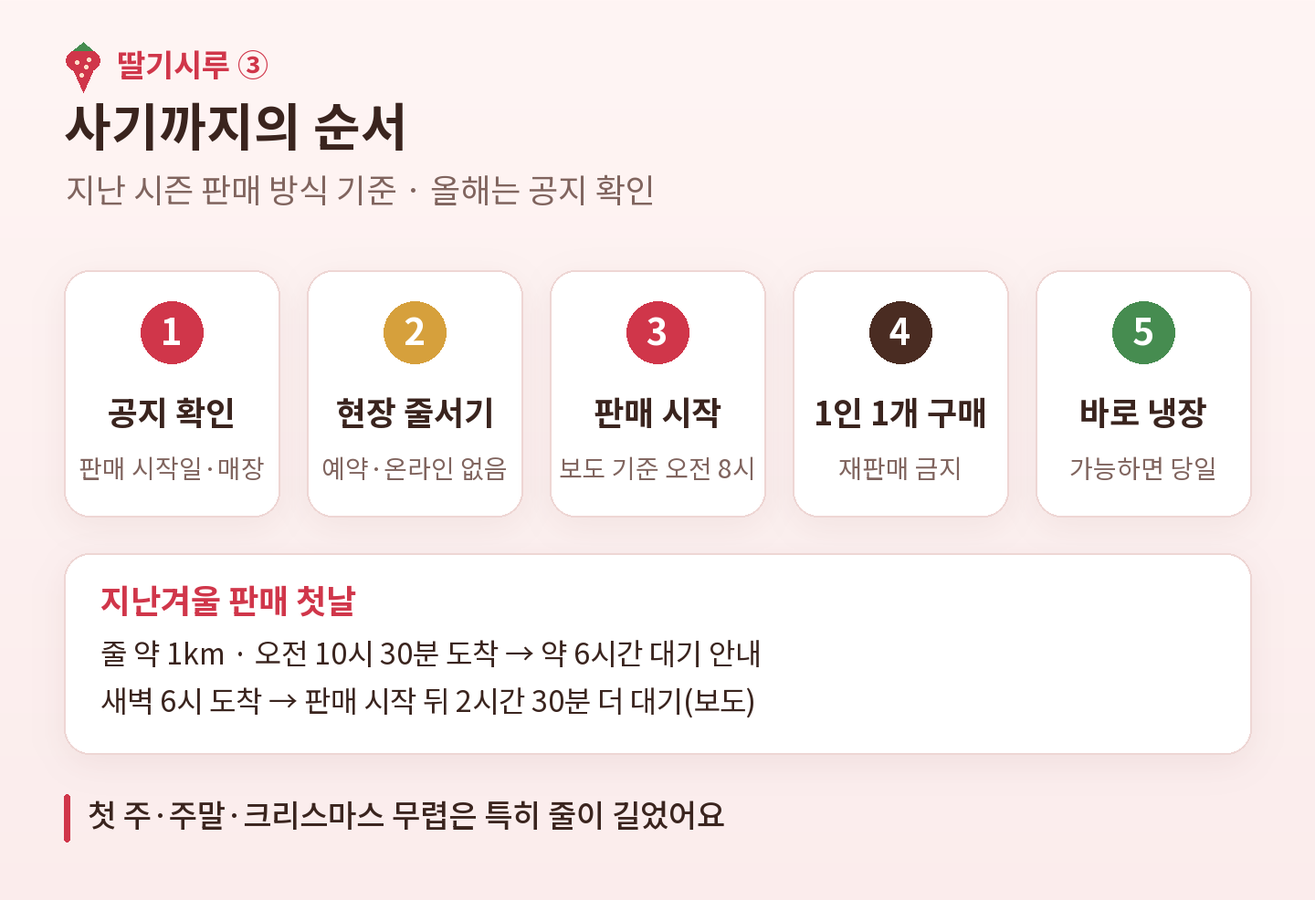
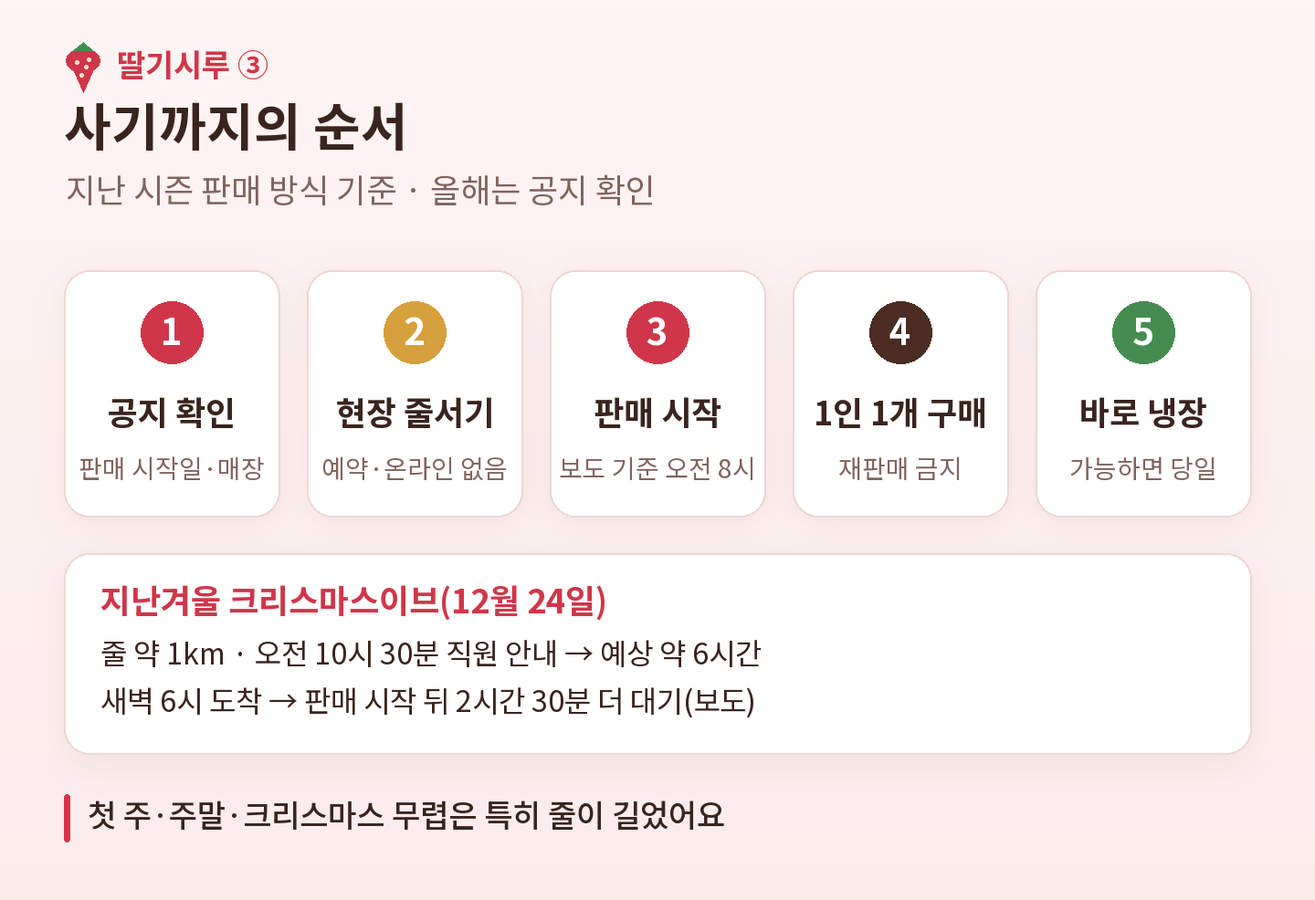
성심당 딸기시루 글: 외부 검수 반영(대기 사례 날짜·상품 구분, 그림 04·05 다시 그림)

Changed region(s): [[0.1562, 0.6389, 0.5938, 0.7606]]

diff --git a/문서/네이버-코딩가이드/20261126_성심당-딸기시루/index.html b/문서/네이버-코딩가이드/20261126_성심당-딸기시루/index.html
@@ -6,7 +6,7 @@
 글 제목: 성심당 딸기시루 총정리, 가격·중량·사는 법과 웨이팅
 태그: #성심당딸기시루 #딸기시루 #딸기시루가격 #딸기시루웨이팅 #성심당 #케익부띠끄 #딸기시루막내 #말차시루 #대전빵집 #대전여행
 검색 설명: 성심당 딸기시루가 무엇이 특별한지(2.3kg 중량, 4만 9천 원 가격, 초코 시트와 딸기를 층층이 쌓은 구조, '시루'라는 이름), 언제부터 어디서 어떻게 사는지(판매 시작일, 케익부띠끄 본점 현장 판매, 1인 1개), 지난겨울 첫날 웨이팅과 기다림을 줄이는 법, 보관 방법을 정리했습니다.
-글자 수: 본문 공백 포함 3,215자 / 공백 제외 2,511자
+글자 수: 본문 공백 포함 3,396자 / 공백 제외 2,653자
 계기: 사용자가 '성심당 딸기시루' 소재 제안 중 1번(사는 법)과 '무엇이 특별할까'를 합쳐 한 편으로 요청.
 
 [이미지 순서]
@@ -14,26 +14,27 @@
 - 01-타이틀.png (ChatGPT, 1080×1080) — 표지
 - 02-딸기시루-단면.png (ChatGPT 실사풍 3D 단면 인포그래픽, 가로 3:2 1620×1080) — 초코 시트·크림·생딸기를 층층이 쌓은 구조, 2.3kg (네 번째 요청으로 받음, AI 버전은 scratchpad/backup/siru-02-ai.png)
 - 03-시루-케이크-가격.png (AI, 세로 1080×1516) — 딸기시루 가격 변화(2023~2025)와 지난 시즌 시루 케이크 가격
-- 04-사기까지의-순서.png (AI, 가로 1440×986) — 공지 확인부터 냉장까지 다섯 단계, 지난겨울 첫날 대기
-- 05-지난-겨울-대기-기록.png (AI, 가로 1440×1226) — 날짜별 보도된 대기 시간(범위 막대): 첫날·크리스마스는 몇 시간, 시즌 중간 평일은 1시간 안쪽
+- 04-사기까지의-순서.png (AI, 가로 1440×986) — 공지 확인부터 냉장까지 다섯 단계, 지난겨울 크리스마스이브(12.24) 대기
+- 05-지난-겨울-대기-기록.png (AI, 가로 1440×약 1450) — 지난 세 시즌 보도된 대기 사례: 한 사람이 실제로 기다린 시간(점)·직원 안내 예상 시간(빈 원)·보도된 범위(막대)를 나눠 표시
 - 06-함께-보면-좋은-글.png (AI 배너, 1600×234)
 
+[외부 검수 반영 11.26] 2025.2.14 한국경제 2시간 20분은 화이트딸기시루 구매라 본문·그림 05에서 뺌(원문 확인). 약 1km·오전 10시 30분 약 6시간 안내·새벽 6시 도착 2시간 30분은 한겨레 12.24 기사 원문상 크리스마스이브 일이라 첫날(12.23, 3시간 23분)과 나눠 씀, 그림 04 상자 제목도 고침. 그림 05는 서로 다른 사람의 숫자를 한 범위로 잇지 않게 점·빈 원·막대로 나눔. 출시일은 '딸기시루 이름으로 2023.1.30'으로 한정(검수의 2021년 1월 첫 등장은 원문을 찾지 못해 쓰지 않음). 1kg 가격 문장 중립화, 임신부 우대는 시즌 안내 확인 문장 추가.
 [근거] (2026.11.26 서브에이전트 조사, 다음 뉴스 기사 원문 기준. 성심당 인스타그램은 직접 읽지 못함, 누리집 공지 게시판도 내용 확인 못 함)
-- 2026~27년 겨울 판매 일정·가격: 11.26 기준 발표 없음(최근 한 달 기사 없음). 본문은 '지난 시즌 기준'으로 쓰고 공식 공지 확인을 당부.
-- 지난 시즌(2025~26): 2025.12.23 케익부띠끄 본점에서 판매 시작, 2.3kg 4만 9천 원(2024년과 같음), 막내 4만 3천 원, 말차시루(2025~26 신제품) 4만 3천 원, 딸기설기 5만 2천 원(전 매장) — 조선일보 2025.12.4, 뉴시스·한겨레 2025.12.24. 12.1 SNS 공지 '재료 수급에 따라 판매 일정 변동 가능'·'공식 매장 외 구매대행 판매 금지'(조선일보 인용). 온라인 판매·예약 없음, 1인 1개(뉴시스). 오전 8시 판매 시작, 임산부 동반 1명 우선·5% 할인(한겨레 1건). 첫날 줄 약 1km·직원 추정 약 6시간, 오전 6시 도착 손님 판매 시작 뒤 2시간 30분(한겨레), 200m 넘는 줄·5시간 넘게(뉴시스). 재판매 6만 5천~14만 원(뉴시스)·8만 5천~10만 원(한겨레), 누리집에 '제3자 재판매 금지(변질·위생 위험)' 안내(한겨레 인용).
+- 2026~27년 겨울 판매 일정·가격: 11.26 기준 이번 조사(최근 한 달 기사)에서 공식 발표를 찾지 못함(인스타그램·공지 게시판은 직접 확인 못 함). 본문은 '지난 시즌 기준'으로 쓰고 공식 공지 확인을 당부.
+- 지난 시즌(2025~26): 2025.12.23 케익부띠끄 본점에서 판매 시작, 2.3kg 4만 9천 원(2024년과 같음), 막내 4만 3천 원, 말차시루(2025~26 신제품) 4만 3천 원, 딸기설기 5만 2천 원(전 매장) — 조선일보 2025.12.4, 뉴시스·한겨레 2025.12.24. 12.1 SNS 공지 '재료 수급에 따라 판매 일정 변동 가능'·'공식 매장 외 구매대행 판매 금지'(조선일보 인용). 온라인 판매·예약 없음, 1인 1개(뉴시스). 오전 8시 판매 시작, 임산부 동반 1명 우선·5% 할인(한겨레 1건). 크리스마스이브(12.24) 줄 약 1km·오전 10시 30분 직원 안내 약 6시간, 새벽 6시 도착 손님 판매 시작 뒤 2시간 30분(한겨레 12.24 기사 원문 확인 — 처음엔 첫날로 잘못 씀), 200m 넘는 줄·5시간 넘게(뉴시스). 재판매 6만 5천~14만 원(뉴시스)·8만 5천~10만 원(한겨레), 누리집에 '제3자 재판매 금지(변질·위생 위험)' 안내(한겨레 인용).
 - 판매 종료: 2026.4.5(일) 딸기 케이크 판매 마감(성심당 인스타그램 공지를 인용한 국제뉴스 2026.4.6) — 기사 1건이라 '~고 합니다'. 2024~25 시즌은 4월 말 무렵 끝남.
 - 가격 변화: 2023년 4만 3천 원 → 2024년 4만 9천 원(머니투데이·뉴시스 2024.11.21~22 '6천 원 인상') → 2025년 동일. 2026년 기사 일부의 '4만 3천 원'은 막내 가격으로 판단해 2.3kg 가격으로 쓰지 않음.
 - 중량: 2.3kg(모든 기사 일치). 성심당 대표가 '2.3kg라고 썼는데 손님이 재니 2.5kg이 나왔다'고 말했다는 보도(서울신문 2025.2.12, SBS 스페셜 인터뷰). 크기(cm)·막내 중량은 공개 자료 못 찾음.
 - 구조: 초코 시트·크림·생딸기를 층층이(파이낸셜뉴스 2026.1.16, 성심당 게시물 인용), '딸기 한 박스를 통째로 넣은'(여러 기사의 표현). 딸기 개수·크림 종류는 공식 자료 못 찾아 쓰지 않음.
-- 이름: 처음 이름은 '스트로베리 쇼콜라 케이크', 검은 시트가 겹겹이 쌓인 모습이 시루떡 같아 바꿨다는 대표 인터뷰(서울신문 2025.2.12, 파이낸셜뉴스 2026.1.16). 첫 출시 2023.1.30(성심당 게시물 인용, 파이낸셜뉴스).
+- 이름: 처음 이름은 '스트로베리 쇼콜라 케이크', 검은 시트가 겹겹이 쌓인 모습이 시루떡 같아 바꿨다는 대표 인터뷰(서울신문 2025.2.12, 파이낸셜뉴스 2026.1.16). '딸기시루' 이름으로 첫 출시 2023.1.30(성심당 게시물 인용, 파이낸셜뉴스). 검수가 말한 '전신 2021년 1월 첫 등장'은 원문을 찾지 못해 쓰지 않음.
 - 회사 실적: 2025년 매출 2,629억 원·영업이익 643억 원(감사보고서 보도, 서울경제 2026.4.12 등) — 본문에는 쓰지 않음(딸기시루만의 숫자가 아니라서).
 - 보관: 공식 유통기한 공지 못 찾음. '냉장 보관, 가능하면 당일' 수준으로만 씀.
 - 개인 이름은 쓰지 않음(성심당 대표로만).
-- 사용자 요청(11.26)으로 '얼마나 기다릴까?' 보강(두 번째 서브에이전트 조사, 기사 원문): 2023.12.24 오전 10시 약 700~800명·최소 2시간(한국일보 르포), 2024.12.31(화) 점심 1시간 안쪽·'주말 최소 2~3시간'(이데일리 기자 체험), 2025.2.14 밸런타인데이 오픈 전 300명+·2시간 20분(한국경제), 2025.2 성심당 쪽 '주말 300명 이상, 시간을 잘 맞추면 웨이팅 없는 시간대도 많다'·생산량 평일 약 300·주말 약 800개(세계일보 2025.2.23), 2025.12.23 새벽 3시 줄·영하 8도(연합뉴스TV)·주문·계산까지 3시간 23분(파이낸셜뉴스), 12.25 4~5시간 넘게(서울신문·헤럴드경제), 줄은 케익부띠끄 옆 중앙로 지하상가('계단으로 내려가 대기' 안내판)·많으면 지상 주차장까지, 주문·계산 뒤 옆 별도 수령처(2024~25부터), 말차시루 옆 건물·함께 계산하면 옆에서 수령, 번호표·대기 앱 보도 없음, 케이크 보관함 1만 원(오전 8시~자정)·1만 원 이상 구매 1시간 무료 주차(한국경제 2025.2), 임신부 우선 입장 2024 도입·확인서와 신분증(서울신문 2025.12.27). 2024 시즌 대기는 1시간~7시간으로 엇갈려 그림에서 뺌. 2025.12 첫날 줄 길이는 200m(뉴시스)와 약 1km(한겨레)로 측정 방식이 달라 본문은 '약 1km까지'만.
+- 사용자 요청(11.26)으로 '얼마나 기다릴까?' 보강(두 번째 서브에이전트 조사, 기사 원문): 2023.12.24 오전 10시 약 700~800명·최소 2시간(한국일보 르포), 2024.12.31(화) 점심 1시간 안쪽·'주말 최소 2~3시간'(이데일리 기자 체험), 2025.2.14 한국경제 기자 체험(2시간 20분)은 화이트딸기시루 구매라 외부 검수 뒤 본문·그림에서 뺌, 2025.2 성심당 쪽 '주말 300명 이상, 시간을 잘 맞추면 웨이팅 없는 시간대도 많다'·생산량 평일 약 300·주말 약 800개(세계일보 2025.2.23), 2025.12.23 새벽 3시 줄·영하 8도(연합뉴스TV)·주문·계산까지 3시간 23분(파이낸셜뉴스), 12.25 4~5시간 넘게(서울신문·헤럴드경제), 줄은 케익부띠끄 옆 중앙로 지하상가('계단으로 내려가 대기' 안내판)·많으면 지상 주차장까지, 주문·계산 뒤 옆 별도 수령처(2024~25부터), 말차시루 옆 건물·함께 계산하면 옆에서 수령, 번호표·대기 앱 보도 없음, 케이크 보관함 1만 원(오전 8시~자정)·1만 원 이상 구매 1시간 무료 주차(한국경제 2025.2), 임신부 우선 입장 2024 도입·확인서와 신분증(서울신문 2025.12.27). 2024 시즌 대기는 1시간~7시간으로 엇갈려 그림에서 뺌. 줄 길이 200m(뉴시스)는 첫날 무렵, 약 1km(한겨레)는 12.24 크리스마스이브 기준이라 본문은 24일 일로 씀.
 - 함께 보면 좋은 글: 성심당 매장별 영업시간, 딸기시루는 어디서 살까(네이버 코딩가이드 · 여행·취미·문화 · 2026.11.25), 전국 크리스마스 마켓 모음(네이버 코딩가이드 · 여행·취미·문화 · 2026.11.26).
 -->
 
-<p style="font-size:16px;">무게 2.3kg, 가격 4만 9천 원.<br>지난겨울 판매 첫날에는 대전 은행동 골목에 약 1km 줄이 섰다고 합니다.</p>
+<p style="font-size:16px;">무게 2.3kg, 가격 4만 9천 원.<br>지난겨울 크리스마스이브에는 대전 은행동 골목에 약 1km 줄이 섰다고 합니다.</p>
 
 <p style="font-size:16px;color:#e60000;font-weight:bold;">[[ 이미지: 타이틀 (01-타이틀.png) ]]</p>
 
@@ -60,14 +61,14 @@
 <p>&nbsp;</p>
 <h3 style="font-size:18px;margin:24px 0 8px;">◆ 이름이 '시루'인 까닭</h3>
 <p style="font-size:16px;">처음 이름은 '스트로베리 쇼콜라 케이크'였다고 합니다.<br>검은 시트가 겹겹이 쌓인 모습이 시루떡 같아 지금 이름으로 바꿨다는 것이 성심당 쪽 설명입니다.</p>
-<p style="font-size:16px;">2023년 1월 30일 처음 나와, 이제는 겨울마다 줄을 세우는 대표 케이크가 됐습니다.</p>
+<p style="font-size:16px;">'딸기시루'라는 이름으로 나온 것은 2023년 1월 30일이라고 합니다.<br>이제는 겨울마다 줄을 세우는 대표 케이크가 됐습니다.</p>
 
 <p>&nbsp;</p>
 <h3 style="font-size:18px;margin:24px 0 8px;">◆ 가격은 얼마일까?</h3>
 
 <p style="font-size:16px;color:#e60000;font-weight:bold;">[[ 이미지: 시루 케이크 가격 (03-시루-케이크-가격.png) ]]</p>
 
-<p style="font-size:16px;">2.3kg 딸기시루는 2023년 4만 3천 원에서 2024년 4만 9천 원으로 올랐고, 2025년에도 같았습니다.<br>1kg에 2만 1천 원 남짓인 셈이라 '무게 대비 싸다'는 평이 인기의 이유로 꼽힙니다.</p>
+<p style="font-size:16px;">2.3kg 딸기시루는 2023년 4만 3천 원에서 2024년 4만 9천 원으로 올랐고, 2025년에도 같았습니다.<br>단순히 나누면 1kg에 약 2만 1천 원입니다.<br>가격과 함께 딸기와 크림을 넉넉히 넣은 구성도 인기 이유로 자주 언급됩니다.</p>
 <p style="font-size:16px;">작은 크기인 '딸기시루 막내'와 말차 크림을 더한 '말차시루'는 4만 3천 원이었습니다.<br>막내의 무게는 공개된 자료를 찾지 못했습니다.</p>
 
 <p>&nbsp;</p>
@@ -85,7 +86,7 @@
 <p style="font-size:16px;color:#e60000;font-weight:bold;">[[ 이미지: 사기까지의 순서 (04-사기까지의-순서.png) ]]</p>
 
 <p style="font-size:16px;">판매는 오전 8시에 시작했다고 합니다.<br>임신부는 동행 1명과 함께 줄을 서지 않고 살 수 있고 5% 할인을 받았다는 보도도 있습니다.</p>
-<p style="font-size:16px;">이 우선 입장은 줄이 길어지면서 2024년에 생겼고, 임신 확인서나 산모수첩과 신분증을 함께 확인했다고 합니다.</p>
+<p style="font-size:16px;">이 우선 입장은 줄이 길어지면서 2024년에 생겼고, 임신 확인서나 산모수첩과 신분증을 함께 확인했다고 합니다.<br>올겨울에도 같은지, 어떤 서류가 필요한지는 그 시즌 매장 안내로 확인하세요.</p>
 <p style="font-size:16px;">판매 매장과 우대 방식은 시즌마다 바뀔 수 있습니다.<br>출시 공지에서 판매 매장을 먼저 확인하세요.</p>
 
 <p>&nbsp;</p>
@@ -93,17 +94,19 @@
 <h2 style="font-size:24px;margin:40px 0 12px;">얼마나 기다릴까?</h2>
 <p style="font-size:16px;">기다리는 시간은 날짜에 따라 크게 달랐습니다.<br>지난 세 번의 겨울에 보도된 대기 시간을 모아 보면 이렇습니다.</p>
 
-<p style="font-size:16px;color:#e60000;font-weight:bold;">[[ 이미지: 지난 겨울 대기 기록 (05-지난-겨울-대기-기록.png) ]]</p>
+<p style="font-size:16px;color:#e60000;font-weight:bold;">[[ 이미지: 지난 세 시즌 대기 사례 (05-지난-겨울-대기-기록.png) ]]</p>
 <p>&nbsp;</p>
 <h3 style="font-size:18px;margin:24px 0 8px;">◆ 가장 길었던 날: 판매 첫날과 크리스마스</h3>
 <p style="font-size:16px;">지난 시즌 판매 첫날(2025년 12월 23일)에는 새벽 3시부터 줄이 생겼다고 합니다.<br>그날 새벽 기온은 영하 8도였다는 보도가 있습니다.</p>
-<p style="font-size:16px;">줄은 약 1km까지 이어졌고, 오전 10시 30분에 온 사람은 약 6시간을 기다려야 한다는 안내를 들었다고 합니다.<br>주문과 계산까지 3시간 23분이 걸렸다는 기자 체험기도 있습니다.</p>
-<p style="font-size:16px;">크리스마스 당일에도 4~5시간 넘게 기다렸다는 보도가 이어졌습니다.<br>2023년 크리스마스이브에는 오전 10시에 700~800명이 줄을 서 최소 2시간을 기다렸다고 합니다.</p>
+<p style="font-size:16px;">이날 줄을 서서 주문과 계산을 마치기까지 3시간 23분이 걸렸다는 기자 체험기가 있습니다.</p>
+<p style="font-size:16px;">다음 날인 크리스마스이브(12월 24일)에는 줄이 약 1km까지 이어졌다고 합니다.<br>오전 10시 30분에는 지금 서면 약 6시간을 기다려야 한다는 직원 안내가 나왔습니다.</p>
+<p style="font-size:16px;">같은 날 새벽 6시에 온 사람도 판매 시작(오전 8시) 뒤 2시간 30분을 더 기다렸다고 합니다.<br>크리스마스 당일에도 4~5시간 넘게 기다렸다는 보도가 이어졌습니다.</p>
+<p style="font-size:16px;">2023년 크리스마스이브에는 오전 10시에 700~800명이 줄을 서 최소 2시간을 기다렸다고 합니다.</p>
 <p>&nbsp;</p>
 <h3 style="font-size:18px;margin:24px 0 8px;">◆ 시즌 중간 평일은 어땠을까?</h3>
 <p style="font-size:16px;">첫 주가 지나면 사정이 달랐습니다.<br>2024년 12월 31일(화) 점심에는 1시간 안쪽으로 샀다는 체험기가 있습니다.</p>
 <p style="font-size:16px;">2025년 2월, 성심당 쪽은 '주말에는 300명 넘게 기다리지만 시간을 잘 맞추면 대기가 없는 때도 많다'고 설명했다고 합니다.<br>당시 딸기시루를 평일 약 300개, 주말 약 800개 만든다는 설명도 함께 나왔습니다.</p>
-<p style="font-size:16px;">다만 밸런타인데이처럼 특별한 날은 평일이어도 2시간 넘게 기다렸다는 보도가 있습니다.<br>숫자는 대부분 기자 체험이나 손님 후기라 공식 집계는 아닙니다.</p>
+<p style="font-size:16px;">여기 적은 숫자는 대부분 기자 체험이나 손님 후기라 공식 집계는 아닙니다.<br>한 사람이 기다린 시간과 직원이 안내한 예상 시간도 서로 다른 숫자입니다.</p>
 <p>&nbsp;</p>
 <h3 style="font-size:18px;margin:24px 0 8px;">◆ 줄은 어디에 설까?</h3>
 <p style="font-size:16px;">지난 시즌 줄은 케익부띠끄 본점 옆 중앙로 지하상가 쪽으로 이어졌습니다.<br>'계단으로 내려가 대기'라는 안내판이 있었다고 합니다.</p>

diff --git a/AGENTS.md b/AGENTS.md
@@ -269,7 +269,7 @@
 - 2026-11-26: `문서/네이버-코딩가이드/20261126_성심당-딸기시루/index.html` 작성("성심당 딸기시루 총정리, 가격·중량·사는 법과 웨이팅", 카테고리 여행·취미·문화, 공백 포함 2,158자). 사용자가 '딸기시루' 제안 1번(사는 법)과 '무엇이 특별할까'를 합쳐 한 편으로 요청.
   - 근거: 서브에이전트로 2023~2026 기사 원문 조사(성심당 인스타그램·누리집 공지는 직접 읽지 못함). 올겨울(2026~27) 일정·가격은 11.26 기준 발표가 없어 '지난 시즌 기준'과 공식 공지 확인 안내를 요약 뒤 연한 배경 상자에 둠. 2026년 기사 일부의 '딸기시루 4만 3천 원'은 막내 가격으로 판단해 2.3kg 가격으로 쓰지 않음. 오전 8시·임신부 우대·첫날 대기 시간은 기사 1~2건이라 '~고 합니다·보도'로. 회사 실적은 딸기시루만의 숫자가 아니라 본문에서 뺌. 2025년 4월 곰팡이 민원 건은 쓰지 않음. 대표 이름은 쓰지 않음. **'올해 판매 정보'가 아직 없는 계절 상품 글은 지난 시즌 사실을 날짜와 함께 쓰고, 끝에 '올해 공지가 뜨면 볼 것'을 둔다.**
   - 이미지 5장: AI 02 딸기시루 단면(가로 개념도)·03 시루 케이크 가격(세로 막대+목록)·04 사기까지의 순서(가로 다섯 단계+첫날 대기 상자)·05 이 글 배너(초코 원 안 딸기) — 연분홍 크림·초코·딸기 빨강, 머리에 딸기 아이콘 + '딸기시루 ①~③', 스크립트 scratchpad/tgs/siru.py. h3 기호 ◆, '한 줄로 말하면'만 딸기 빨강. 링크는 성심당 매장별(네이버 · 여행·취미·문화 · 11.25)·전국 크리스마스 마켓(네이버 · 여행·취미·문화 · 11.26). ChatGPT 01 타이틀('성심당 딸기시루 / 가격·사는 법 총정리') 요청 중.
-  - 같은 날 사용자 요청으로 '얼마나 기다릴까?' 보강(공백 포함 3,215자): h3 넷(가장 길었던 날·시즌 중간 평일·줄은 어디에·사는 순서와 받는 곳) + '기다림을 줄이려면' 목록 확장, 새 AI 그림 05 지난 겨울 대기 기록(가로 범위 막대), 배너는 06으로. 대기 숫자는 기자 체험·후기라 '공식 집계 아님'을 그림과 본문에 밝힘. **대기·혼잡 정보는 날짜별로 나눠 쓰고(첫날·명절 vs 시즌 중간 평일), 측정 방식이 다른 숫자는 한쪽만 쓰거나 범위로 쓴다.** 같은 날 사용자 요청으로 02 딸기시루 단면도 ChatGPT 실사풍 3D 단면 인포그래픽(가로 3:2 1620×1080, 글자 작게)으로 요청. AI 버전 백업 scratchpad/backup/siru-02-ai.png, 받기 전까지 AI 버전이 자리를 지킴. 받은 02가 빡빡해(케이크가 화면을 꽉 채움, 큰 제목·배지, 오른쪽 요소 다섯 개) 여백 8~10%·케이크 50~55%·요소 축소(설명 문장·'시루떡' 줄 빼고 아래 안내 한 줄, 2.3kg은 제목 옆 작은 배지)로 다시 요청. 두 번째는 비어 보이고, 세 번째는 위아래 간격이 좁아 픽셀 간격(제목 위·아래 글 아래 80px+, 제목–케이크 60px+, 케이크–아래 글 50px+)으로 네 번째 요청. 네 번째 02(글자·요소 모두 정확, 간격 넉넉, 1536×1024 → 1620×1080)와 01 타이틀(햇살 테이블의 잘린 딸기시루·흰 상자, 글자 정확, 둘째 줄 약 81%·세로 중심 약 49%, 크기만 맞춤)을 적용, 원본 scratchpad/backup/siru-01·02-original.png. 이미지 6장 완료, 대기 중인 요청 없음. 남은 일은 사용자의 네이버 발행(링크 줄 교체)뿐이다.
+  - 같은 날 사용자 요청으로 '얼마나 기다릴까?' 보강(공백 포함 3,215자): h3 넷(가장 길었던 날·시즌 중간 평일·줄은 어디에·사는 순서와 받는 곳) + '기다림을 줄이려면' 목록 확장, 새 AI 그림 05 지난 겨울 대기 기록(가로 범위 막대), 배너는 06으로. 대기 숫자는 기자 체험·후기라 '공식 집계 아님'을 그림과 본문에 밝힘. **대기·혼잡 정보는 날짜별로 나눠 쓰고(첫날·명절 vs 시즌 중간 평일), 측정 방식이 다른 숫자는 한쪽만 쓰거나 범위로 쓴다.** 같은 날 사용자 요청으로 02 딸기시루 단면도 ChatGPT 실사풍 3D 단면 인포그래픽(가로 3:2 1620×1080, 글자 작게)으로 요청. AI 버전 백업 scratchpad/backup/siru-02-ai.png, 받기 전까지 AI 버전이 자리를 지킴. 받은 02가 빡빡해(케이크가 화면을 꽉 채움, 큰 제목·배지, 오른쪽 요소 다섯 개) 여백 8~10%·케이크 50~55%·요소 축소(설명 문장·'시루떡' 줄 빼고 아래 안내 한 줄, 2.3kg은 제목 옆 작은 배지)로 다시 요청. 두 번째는 비어 보이고, 세 번째는 위아래 간격이 좁아 픽셀 간격(제목 위·아래 글 아래 80px+, 제목–케이크 60px+, 케이크–아래 글 50px+)으로 네 번째 요청. 네 번째 02(글자·요소 모두 정확, 간격 넉넉, 1536×1024 → 1620×1080)와 01 타이틀(햇살 테이블의 잘린 딸기시루·흰 상자, 글자 정확, 둘째 줄 약 81%·세로 중심 약 49%, 크기만 맞춤)을 적용, 원본 scratchpad/backup/siru-01·02-original.png. 이미지 6장 완료, 대기 중인 요청 없음. 남은 일은 사용자의 네이버 발행(링크 줄 교체)뿐이다. 같은 날 외부 검수 반영(공백 포함 3,396자): 2025.2.14 2시간 20분은 화이트딸기시루 사례라 뺌, 약 1km·6시간 안내·새벽 6시 도착 2시간 30분은 한겨레 원문상 12.24(크리스마스이브)라 첫날(12.23)과 나눔, 그림 05를 '지난 세 시즌, 보도된 대기 사례'로 바꾸고 실제 대기(점)·직원 안내 예상(빈 원)·보도 범위(막대)를 나눠 그림, 그림 04 상자 제목도 크리스마스이브로, 출시일은 '딸기시루 이름으로 2023.1.30'으로 한정(2021년 첫 등장은 원문 미확인이라 안 씀). **대기 시간을 모을 때는 같은 날짜인지, 같은 상품(딸기시루·화이트딸기시루)인지, 실제 대기와 안내 예상 시간인지 나눠 확인하고 서로 다른 사람의 숫자를 한 범위로 잇지 않는다.**
 - 2026-11-26: `문서/네이버-코딩가이드/20261126_뮤지컬-좌석-예매/index.html` 작성("연말 뮤지컬 좌석 고르는 법, 예매부터 취소 수수료까지", 카테고리 여행·취미·문화). 추천 5개 중 5번.
   - 근거: 공연법 현행 원문(국가법령정보센터, 제4조의2 부정구매·부정판매 금지 2026.2.27 전문개정, 제41조 1년 이하 징역·1천만 원 이하 벌금, 제37조의2 신고 포상금), 예스24 공연 상품 페이지의 일반 취소 규정(한 예매처 예로 밝힘), 조특법 제126조의2 문화비 공제(앞선 글에서 확인). 좌석 등급 배치·취소표 시점·선예매는 일반적인 경향이라 '보통·많다·알려져 있다'로 쓰고 특정 공연장 좌석 수는 쓰지 않음.
   - 이미지 5장: AI 02 대극장 좌석 등급(세로 개념도)·03 예매가 열리는 순서(가로 다섯 단계)·04 취소 수수료(가로 막대)·05 이 글 배너(와인 원 안 금빛 가면) — 어두운 공연장 바탕·와인·장미·금빛·하늘, 머리에 가면 아이콘 + '공연 예매 ①~③', 스크립트 scratchpad/tgs/musical.py. h3 기호 ♪, '한 줄로 말하면'만 와인. 링크는 서울윈터페스티벌(네이버 · 여행·취미·문화 · 11.26)·연말정산 미리보기(네이버 · 경제·투자 · 11.24). ChatGPT 01 타이틀('연말 뮤지컬 예매 / 좌석 고르는 법') 적용(붉은 막 무대·벨벳 객석·좌석 격자 휴대폰·빈 종이 티켓, 글자 정확, 로고·글자 없음, 글자 약 84%·세로 중심 약 44%라 95%로 줄이고 45px 내려 흐린 같은 그림 위에 섞음 → 약 80%·48%, 원본 scratchpad/backup/musical-01-original.png). 이미지 5장 완료, 대기 중인 요청 없음.
